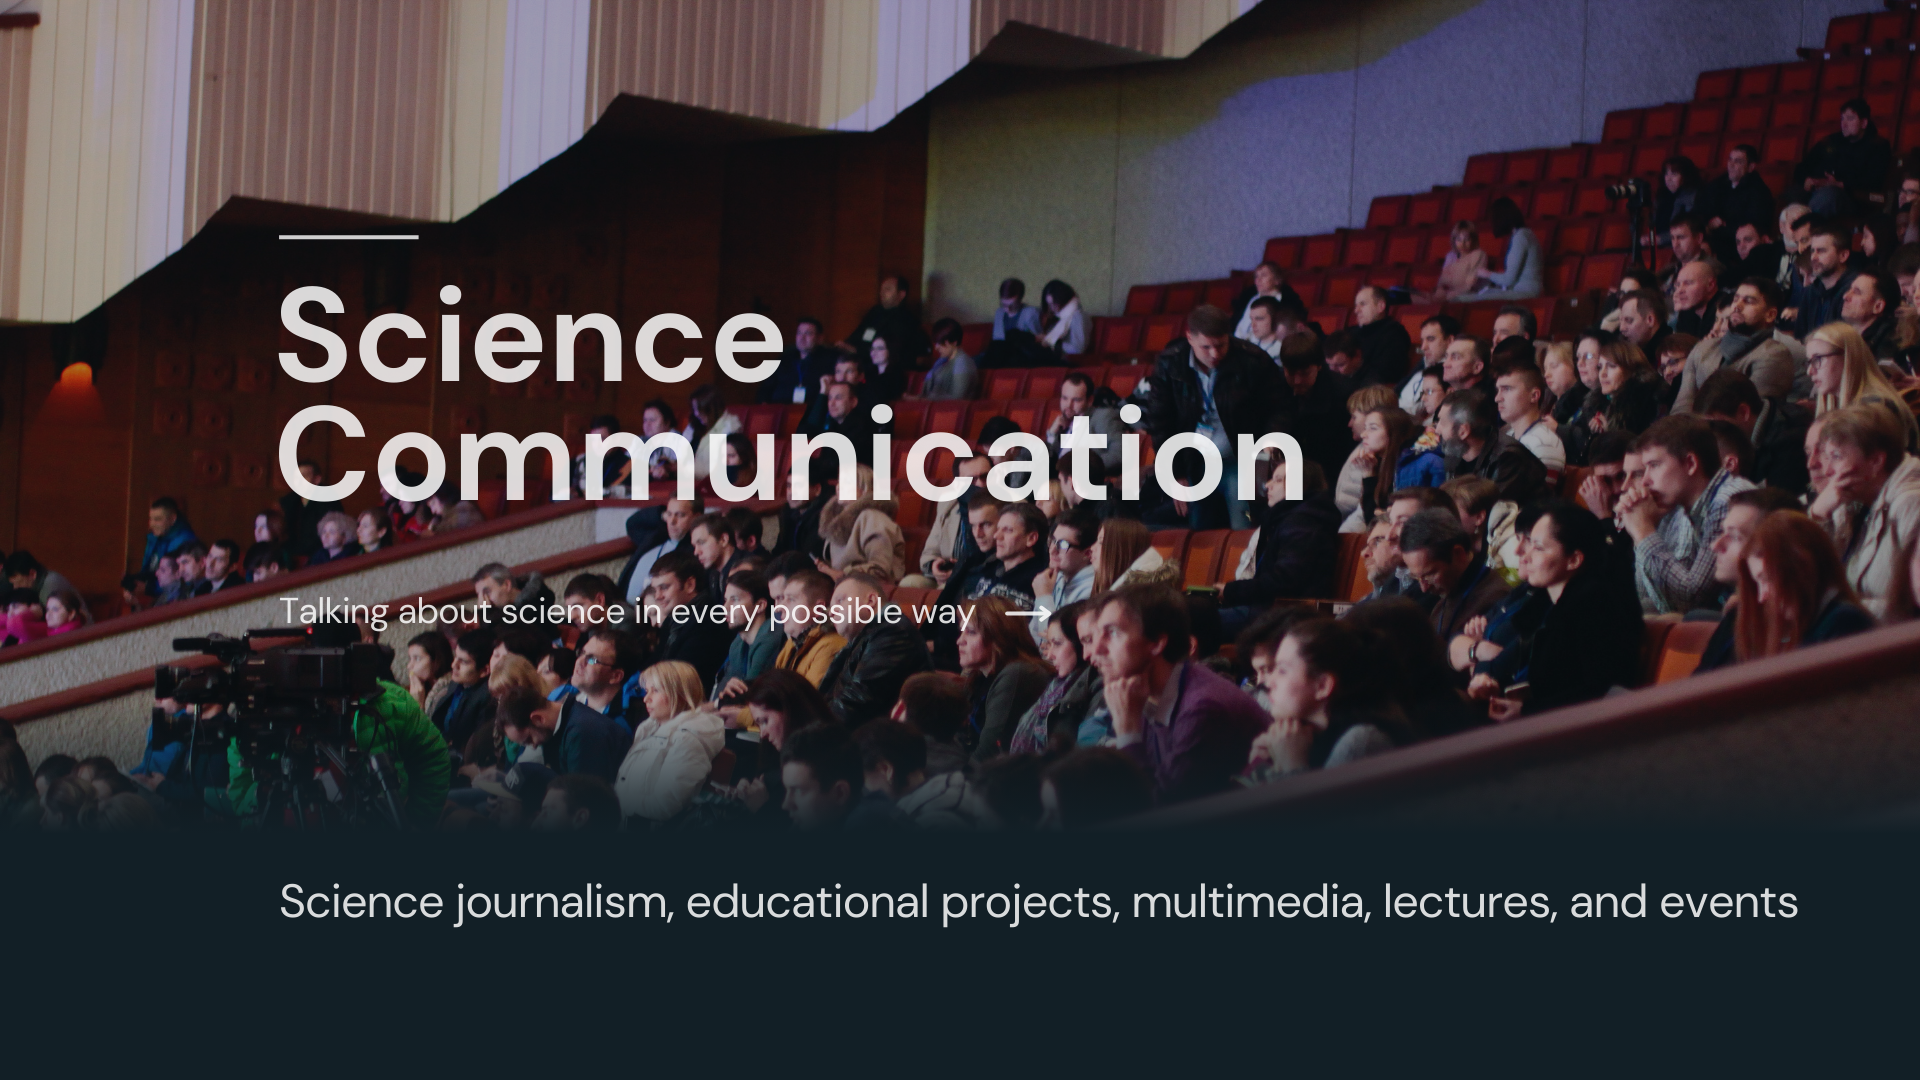
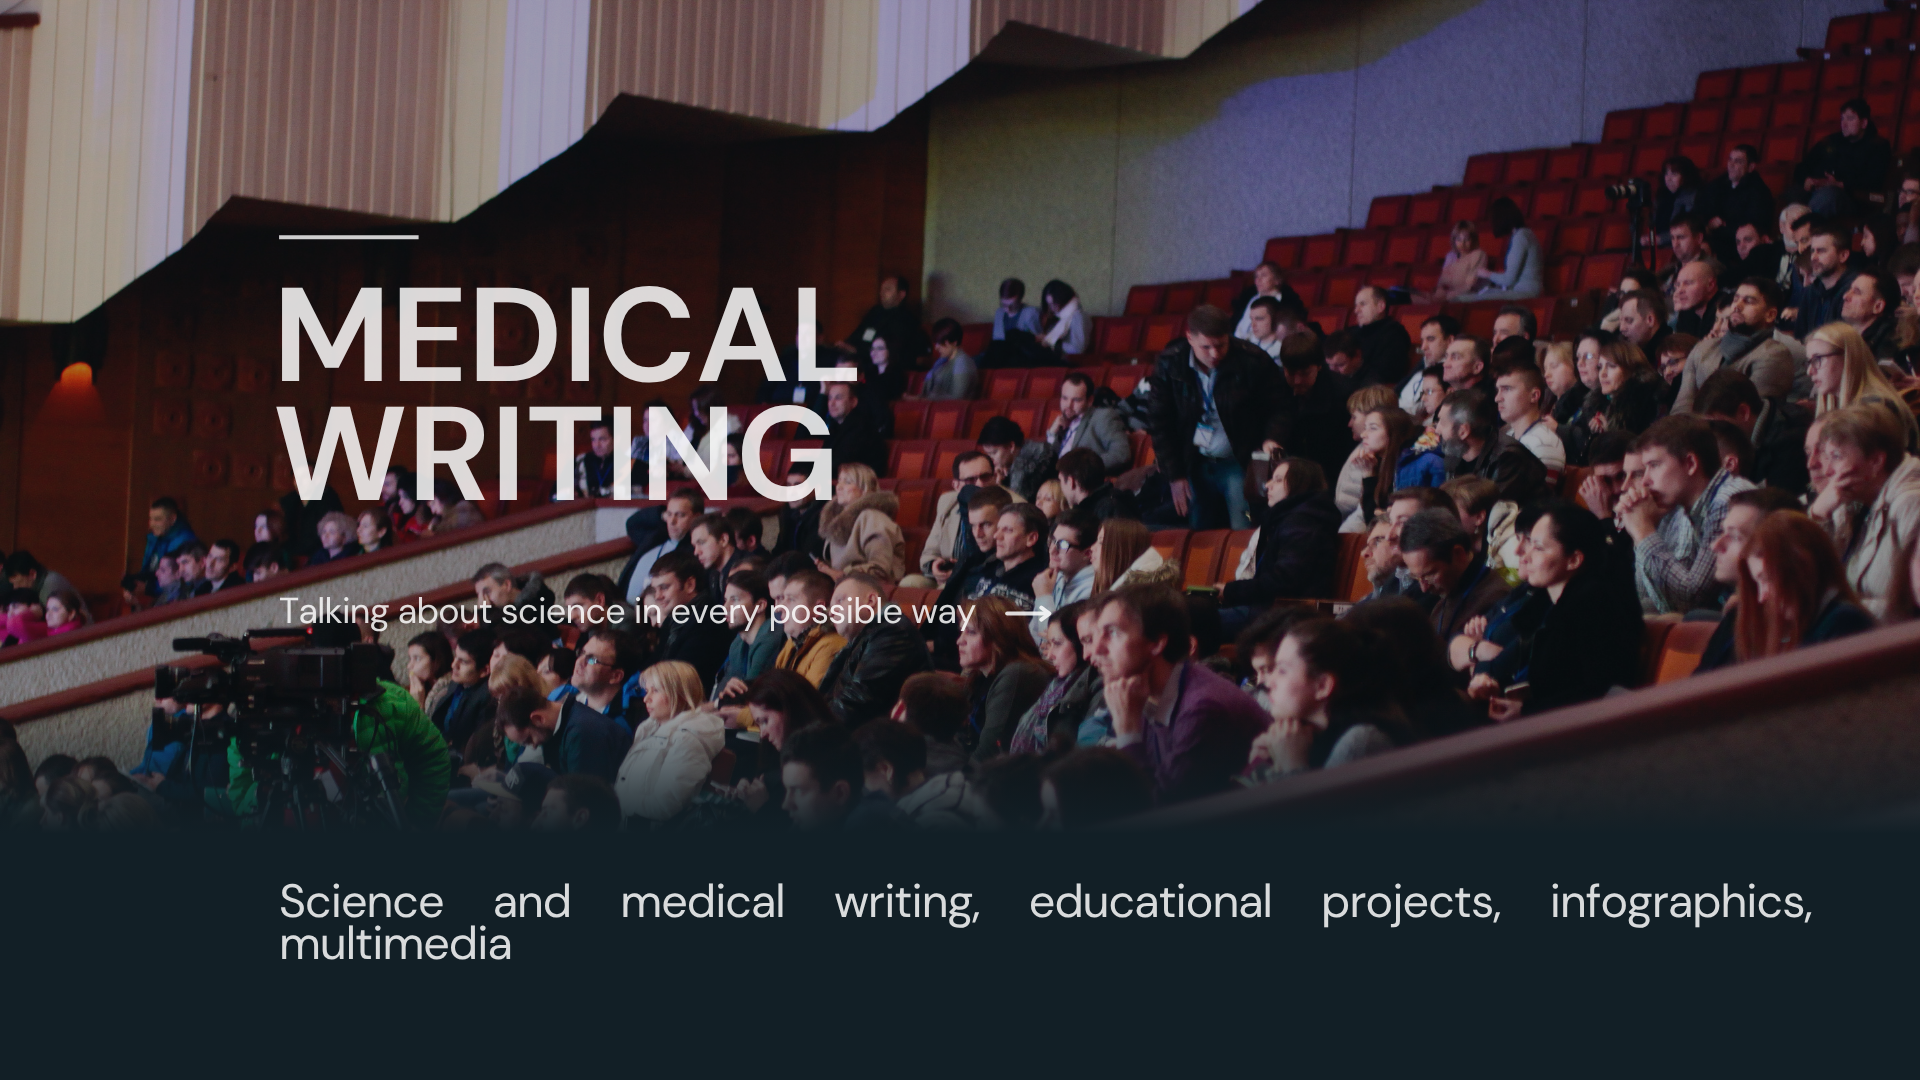
-dis

Changed region(s): [[0.125, 0.2444, 0.6875, 0.4889], [0.125, 0.825, 0.9375, 0.8861]]

diff --git a/scicom.html b/scicom.html
@@ -25,42 +25,44 @@
             <div class="row">
                 <div class="col-lg-7 col-md-12 col-12 d-flex align-items-center">
                     <div class="about-text">
-                        <h2>Science communications - from longreads to events</h2>
-                        <p><br></p>
-                    <h3>Science journalism</h3>
-                        <p>People love stories, and people make history. Science and medicine are also about stories, and I love writing them.</p>
-                        <p>I have written articles and multimedia for <b>Technology Networks, The Skeptic, Research-HIVE, ABSW, N+1, Knife.Media and others</b>.</p> <br>
-                         <img src="images/undraw/tn.jpg" class="" alt="svg image" height="450px">
-                        <p><br><br></p> 
-                        <h4>Educational project for <b>Hyperskil</b></h4>
-                      <p>Hyperskill is a platform with bioinformatics courses for IT students. I participated in development of 3 courses, ensuring scientifically accurate data presentation, achieving an average student rating of <b>4.3</b>
-                    <p>I Designed and implemented over 110+ infographics and scientific visualizations, enhancing educational engagement and comprehension.
-                        <br><br>
+                        <h2>MEDICAL WRITING</h2>
+                        <p><br></p> 
+                        <h4>Educational Content for Biotech</b></h4>
+                      <p>Hyperskill: Bioinformatics Course Development 
+                        <br>&#8226 Developed 3 bioinformatics courses for 100,000+ students
+<br>&#8226 110+ scientific infographics and visualizations
+<br>&#8226 Average student rating: 4.3/5
+<br>&#8226 Ensured scientific accuracy for complex concepts
+<br>&#8226 Result: High-quality educational content that scaled to thousands of learners.</p>
                         <img src="images/undraw/hyper2.jpg" class="" alt="svg image" height="320px">
-
-
-                    </p>
-                                          
-                      
+                        <img src="images/undraw/pic4.png" class="" alt="svg image" height="550px"> 
+                         <img src="images/undraw/pic1.png" class="" alt="svg image" height="450px">
+                         <br><br><br><br><br><br> <br><br><br><br><br><br><br><br><br><br><br><br>
+                    </p>                                         
                     </div>
                 </div>
                 <div class="col-lg-5 col-md-12 col-12">
                     <div class="about-image svg">   
-                        <p><br><br><br><br><br></p>
-                              <h4>Multimedia</h4>
-                        <p>Multimedia projects are an excellent way to communicate science. The clever combination of text, visuals, interactivity, and audio creates a fully immersive experience. <b>One of my projects <a href="https://duozoid.github.io/cats-project/">"What is cats?"</a>  was shortlisted for the 2025 New Media Writing Prize in the Journalism category</b>.</p>
-                       <img src="images/undraw/cats.jpg" class="" alt="svg image" height="300px"> 
-                       <br><br><br>
-                     <h4>Video, podcasts and lectures</h4>
+                        <h3>Science journalism</h3>
+                        <p>I have written articles and multimedia for <b>Technology Networks, The Skeptic, Research-HIVE, ABSW, N+1, Knife.Media and others</b>.<br><br> One of my articles <a href="https://duozoid.github.io/cats-project/"><b>"What is cats?"</a></b> was shortlisted for the 2025 New Media Writing Prize in the Journalism category.</p></p> <br>
+                         <img src="images/undraw/tn.jpg" class="" alt="svg image" height="450px">
+                         <br><br>
+                         <h3>Science infographics</h3>
+                        <p>Scientific and medical writing can be packaged in the form of infographics: visual communication works both in B2B and B2C.</p>
+                         <img src="images/undraw/ka.png" class="" alt="svg image" height="330px">
+                         <br>
+                        <img src="images/undraw/pic7.png" class="" alt="svg image" height="350px">
+<br>
+                       <img src="images/undraw/sep.jpg" class="" alt="svg image" height="550px">
+
+                    <!--<h4>Video, podcasts and lectures</h4>
                         <p>What can reveal a person's story better than an interview?</p>
                         <p>Live communication helps to immerse yourself much better in a person's life and in the topic under discussion. For example, recently with <a href="https://www.womeninsciencepdx.org/">Woman in Science PDX</a> we discussed the limitations of women in the scientific community, and also the beauty of science. <br> <br>I also presented lectures and workshops on science communication and popular science topics.
                         <br>
-                            <img src="images/undraw/pdx.webp" class="" alt="svg image" height="200px">
-                        </p>     <br><br>
+                            <img src="images/undraw/pdx.webp" class="" alt="svg image" height="200px">--> 
                         <!-- <h4>Events</h4>
                         <p>Events, scientific festivals, and museum exhibitions are a great way to introduce the latest scientific advances to a wider audience. One of my favorite events is a science competition for high school students — I managed its organization from 2012 to 2015.</p>
                        <img src="images/undraw/event.jpg" class="" alt="svg image" height="370px"> -->
-
                     </div>
                 </div>  
             </div>

diff --git a/scimark.html b/scimark.html
@@ -25,34 +25,41 @@
             <div class="row">
                 <div class="col-lg-7 col-md-12 col-12 d-flex align-items-center">
                     <div class="about-text">
-                        <h2>Science marketing - from SMM to longreads</h2>
-                        <h3>Medical marketing</h3>
-                        <p>There are many different opportunities to combine marketing and medicine: from commercials and science articles to brochures and presentations.</p>
+                        <h2>CASE STUDIES</h2>
+                        <h3>CASE STUDY #1: PHARMACEUTICAL SMM STRATEGY</h3>
+                        <p>CLIENT: Laboratory Services Company
+<br>CHALLENGE: Abandoned social networks, unclear target audience
+<br>SOLUTION: 
+<br>&#8226 Redefined target audience (healthcare professionals)
+<br>&#8226 Rewrote content strategy and tone of voice
+<br>&#8226 Created educational + engaging content mix
+<br>&#8226 Launched expertise-focused content plan
+
+<br>RESULTS:
+<br>&#8226 3x increase in followers
+<br>&#8226 2.5x increase in engagement
+<br>&#8226 Regular audience growth
+<br>&#8226 Content became go-to resource for lab service</p>                       
                         <p><br></p>
-                        <h4>Presentations and digital</h4>
-                        <p>With a competent selection of information and its correct presentation, even a presentation based on figures can be attractive to the client or partner. Often dry presentations do not catch the eye in any way, they do not make us think. Well-structured information will help avoid this!</p>
+                        <h4>CASE STUDY #2: POPULAR SCIENCE BLOG GROWTH</h4>
+                        <p>CLIENT: Science Blog (Zero Advertising Budget)
+<br>CHALLENGE: Build audience and brand from zero with no ad spend
+<br>SOLUTION: 
+<br>&#8226 Designed recognizable visual style
+<br>&#8226 Created consistent, high-quality content
+<br>&#8226 Built community through organic growth
+<br>RESULTS:
+<br>&#8226 1,000+ engaged followers
+<br>&#8226 277,900 impressions/year
+<br>&#8226 4 advertising contracts signed
+<br>&#8226 Sustainable growth without paid ads
+</p>                       
                         <p><br></p>
-                        <h4>Infographics and Illustrative materials</h4>
-                        <p>Scientific visual is very important for the correct transmission of information. But first and foremost, the visual must capture the eye: the infographic must tell the story, and the illustration is engraved in the memory, making the client remember the product.</p>
-                        <p><br><br></p>
-                        <h3>SMM</h3>
-                        <p>SMM in science and medicine is quite limited - both by scientific data and ethics. Balancing between factual accuracy and entertaining content is difficult, but possible.</p>
-                        <h4>Case #1 - Laboratory Services</h4>
-                        <p>Remade the marketing strategy for abandoned social networks, define the target audience, changed the TOV and took a course on expertise, introduced content for a younger audience</p>
-                        <p>It results in regular growth of live audience, an average <b>3x</b> increase in subscribers and an average <b>2.5x</b> increase in engagement</p>                       
-                        <p><br></p>
-                        <h4>Case #2 - Popular Science Blog</h4>
-                        <p>Developed a scientific blog on a social network with a zero advertising budget. I created brand from scratch with recognizable content style, build a live audience without using paid advertising</p>
-                          <p>It results in <b>1K+</b> subscribers, high-quality content and visuals, <b>277.9</b> thousand impressions per year, signed <b>4</b> advertising contracts </p>
                                        </div>
                 </div>
                 <div class="col-lg-5 col-md-12 col-12">
                     <div class="about-image svg">
-                        <p><br><br><br><br><br><br><br><br><br></p>
-                        <img src="images/undraw/mark5.jpg" class="" alt="svg image" height="200px">
-                       <p><br></p>
-                        <img src="images/undraw/pic1.png" class="" alt="svg image" height="200px">
-                        <p><br><br><br><br></p>
+                    
                         <img src="images/undraw/lab.png" class="" alt="svg image" height="500px">
                         <p><br><br></p>
                         <img src="images/undraw/sci.png" class="" alt="svg image" height="200px">

diff --git a/scidis.html b/scidis.html
@@ -32,40 +32,23 @@
             <div class="row">
                 <div class="col-lg-7 col-md-12 col-12 d-flex align-items-center">
                     <div class="about-text">
-                        <h2>Science - and not only - design</h2>
+                        <h2>SCIENCE DESIGN</h2>
                              <h4>Infographics</h4>
                         <p>Infographics are an incredibly successful way to explain anything! Visualizing even the most complex data makes it easier to understand.</p>
                         <p>I think that great infographics can be made almost anywhere, but most often I use Figma, Tableau, Canvas and sometimes other auxiliary programs.</p>
                         <p>I like to think of infographics as a story - helping the reader move through the image. This infographics were done for the <b>Association of British Science Writers and Hyperskill in 2025 and 2023.</b></p>                       
                            <img src="images/undraw/absw2.jpg" class="" alt="svg image" height="350px"> 
                          <img src="images/undraw/pic4.png" class="" alt="svg image" height="350px"> 
-                         <br><br>
                          <img src="images/undraw/pic1.png" class="" alt="svg image" height="450px"> 
-                        <p><br></p>
-                          <h4>Layouts and web-pages</h4>
-                        <p>Even complex information can become more easily digestible. The combination of visual storytelling and highlighting always makes understanding easier. This projects was done for <b>iGEM in 2025</b>.</p>
-                       &nbsp;&nbsp; &nbsp;&nbsp; &nbsp;&nbsp; &nbsp;&nbsp; &nbsp;&nbsp; &nbsp;&nbsp; &nbsp;&nbsp; <img src="images/undraw/Lawn.png" class="" alt="svg image" height="650px">
-                    </div> 
                 </div>
                 <div class="col-lg-5 col-md-12 col-12">
                     <div class="about-image svg">   
-                    <br><br><br>
-                      <!--  <h4>Photo</h4>
-                        <p>Science is beautiful - why not show it? My and my colleagues' work in microphotography was even <b>awarded the National Science Fidelity Award in 2017</b>.</p>                        
-                         <img src="images/undraw/photo.jpg" class="" alt="svg image" height="300px">
-                         <p><br></p> --> 
-                          <h4>Science illustration</h4>
-                        <p>Sometimes I draw in the classic scientific illustration style. This piece was done for a <b>local cafe in 2018</b> and for <b>birdwatching community in 2025</b>.</p>                        
-                         <img src="images/undraw/coffee.jpg" class="" alt="svg image" height="250px">&nbsp;&nbsp;&nbsp;&nbsp;
-                        <img src="images/undraw/Group 7.png" class="" alt="svg image" height="250px">
                           <h4>Graphic design</h4>
                         <p>This piece along other designs was done for the <b>THE OPEN NOTEBOOK</b> in 2025.</p>                        
                          <img src="images/undraw/TON.png" class="" alt="svg image" height="300px">
-                         <br><br>
-                       <!-- <p>Packaging design, patterns, magazines... Where will the road lead us?</p>                        
-                         <img src="images/undraw/fk.png" class="" alt="svg image" height="150px">&nbsp;&nbsp;&nbsp; 
-                        <img src="images/undraw/Grey Photo Fashion Magazine Poster.png" class="" alt="svg image" height="150px">&nbsp;&nbsp;&nbsp; 
-                         <img src="images/undraw/Cup of Coffee.png" class="" alt="svg image" height="150px"> -->
+                                                 <br><br> <br><br> <br><br> <br><br>
+                        <br><br> <br><br> <br><br> <br><br>
+                        <br><br> <br><br> <br><br> <br><br>
                     </div>
                 </div>
             </div>

diff --git a/index.html b/index.html
@@ -150,14 +150,10 @@
                           <a href="scicom.html">
                           <img src="images/undraw/proj 1.png" alt="Click me 3" id="mainImage3" class="clickable-image"  height="300px">
                           </a>
-                          <a href="scidis.html">
-                          <img src="images/undraw/proj 2.png" alt="Click me 1" id="mainImage1" class="clickable-image"  height="300px">
+                         <a href="scimark.html">
+                          <img src="images/undraw/proj 2.png" alt="Click me 2" id="mainImage2" class="clickable-image" height="300px">
                           </a> 
                         </div>
-                       
-                              <a href="scimark.html">
-                          <img src="images/undraw/proj 3.png" alt="Click me 2" id="mainImage2" class="clickable-image" height="300px">
-                          </a>
                       </div>
                   </div>
                 </div>
